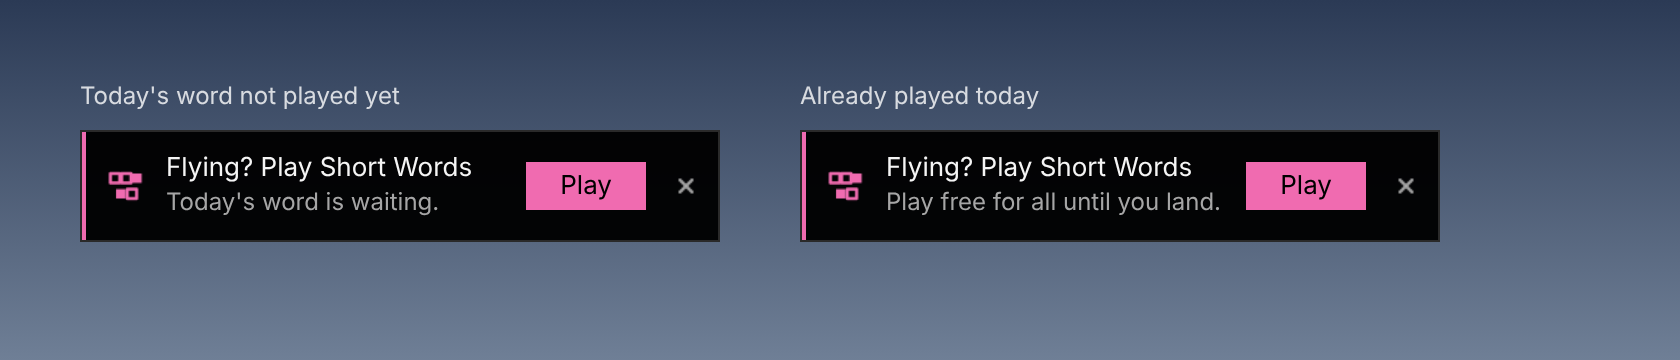
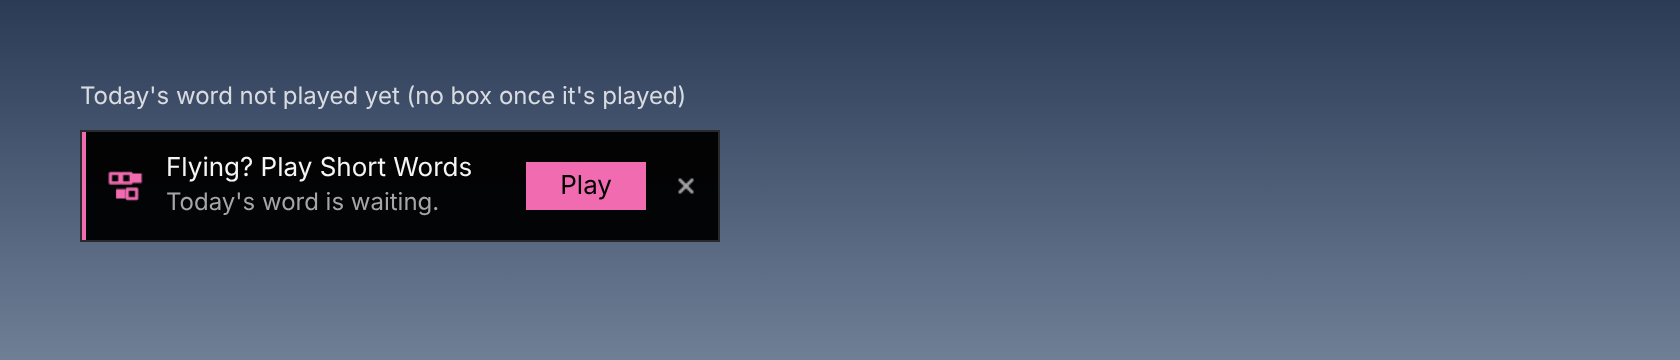
v0.8.0: flight box offers only today's word, and not once it's played
The guild asked for the Short Words flight pop-up to be about the daily
word only. Flight.Offer now returns nothing once today's word is done (or
started on another character); free for all is no longer offered.

Claude-Session: https://claude.ai/code/session_01A7mubGdPYGXe41A4ZcDyrF

Changed region(s): [[0.4643, 0.3361, 0.8667, 0.6722], [0.4643, 0.2444, 0.619, 0.3056], [0.2476, 0.2444, 0.4024, 0.3056]]

diff --git a/preview/index.html b/preview/index.html
@@ -886,8 +886,8 @@ function tooltipShot() {
 // v0.7.2: the box shown on a flight path (Theme.SIZES.flightBox 320 x 56, 140 from the top).
 function flightShot() {
   const box = (text) => `<div class="flightbox"><i class="edge"></i><i class="mask fi"></i><div class="ft"><div>Flying? Play Short Words</div><div class="dim">${text}</div></div>${btn("Play", "primary")}<div class="close"><i></i></div></div>`;
-  return `<div class="flightshot"><div><div class="cap">Today's word not played yet</div>${box("Today's word is waiting.")}</div>
-    <div><div class="cap">Already played today</div>${box("Play free for all until you land.")}</div></div>`;
+  // v0.8.0: only until today's word is played; no box after that.
+  return `<div class="flightshot"><div><div class="cap">Today's word not played yet (no box once it's played)</div>${box("Today's word is waiting.")}</div></div>`;
 }
 function copyWin() {
   const lines = ["Short Royalty roster", ...rosterRows().slice(0, 30).map((m) => `${m.name}  ${m.level}  ${m.rank}  ${m.spec || "-"}  ${m.ilvl || "-"}`)];

diff --git a/README.md b/README.md
@@ -47,7 +47,7 @@
 | 📅 **Raids** | Guild raids made in the addon by officers and raid leaders; sign up with your role and see who's coming, with readiness; for officers (`/sr officer`) **New raid** and automatic **attendance** (on time, late, didn't attend, bench) with totals and **Copy as spreadsheet** |
 | ⚒ **Find a crafter** | Search an item or recipe and see who in the guild can make it, online first, with its reagents and your bag counts |
 | 🧪 **Professions** | Three page tabs: **Guild** (every profession in the guild, then each profession's crafters and recipes), **Recipes** (**every recipe in the game**, by name, group or material) and **Cooldowns**; specialisations, favourites, skill-up colours from Forever's own data, and where to learn each recipe |
-| 🔤 **Short Words** | A five-letter word game: **Daily** (one word a day for the whole guild) and **Free for all** (keep going), each with **Today** and **All time** guild leaderboards; offered on flight paths |
+| 🔤 **Short Words** | A five-letter word game: **Daily** (one word a day for the whole guild) and **Free for all** (keep going), each with **Today** and **All time** guild leaderboards; today's word offered on flight paths |
 | ⚙ **Settings** | Sharing and privacy switches, accent colour, font, window size and reminders; tools and a live status read-out under **Advanced** |
 | 🧨 **Everywhere** | A sidebar window in your pick of accent colour, `/sr`, a minimap button, short guild lines on item tooltips, chat reminders and a copyable debug report |
 
@@ -224,9 +224,10 @@ else) or **red** (not in the word); the keyboard keeps track.
   for the daily word, every couple of minutes at most for free play. Turn
   sharing off in Settings → *Share my Short Words results*. Scores are on
   trust: it's for fun.
-- **On flights:** when you take a flight path, a small box offers a game
-  (today's word if you haven't played it, otherwise free for all). **Play**
-  opens Short Words; landing closes it again if the box opened it. Turn it
+- **On flights:** when you take a flight path and haven't played today's
+  word yet, a small box offers it. Once you've played it, the box doesn't
+  come back that day (v0.8.0). **Play** opens Short Words; landing closes it
+  again if the box opened it. Turn it
   off in Settings → Display → *Short Words on flights*.
 
 <p align="center"><img src="docs/images/short-words-flight.png" alt="The box shown on a flight path: Flying? Play Short Words" width="100%"></p>

diff --git a/TESTING.md b/TESTING.md
@@ -63,9 +63,9 @@ git history (`git show v0.6.0:TESTING.md`).
 ## v0.7.2 Short Words on flights
 
 15. [ ] Take a **flight path**: within a second a small box appears near the
-    top of the screen, "Flying? Play Short Words". It says *Today's word is
-    waiting* if you haven't played today, otherwise *Play free for all
-    until you land*.
+    top of the screen, "Flying? Play Short Words", *Today's word is
+    waiting*, but only if you haven't played today's word (v0.8.0: after
+    that, no box until the next day's word).
 16. [ ] **Play** opens Short Words. When you land, the box is gone and the
     window closes (only if the box opened it). **✕** or Esc hides the box.
 17. [ ] Getting stunned or feared (not on a flight) never shows the box,

diff --git a/CLAUDE.md b/CLAUDE.md
@@ -330,6 +330,8 @@ shared only over the guild **addon channel**: no website, no server, no uploads.
     Test stub: `time(t)` now uses `os.time(t)` for tables; `W.raid`.
     Pictures `raids*.png` (preview `screen=raids`, `officer=1`,
     `raidsView`, `attView`). TESTING.md 18–29.
+  - Also in v0.8.0 (guild asked): the flight box (`Flight.Offer`) offers only
+    today's daily word and returns nil once it's done (no free-for-all offer).
   - **Unverified in game:** everything; especially rank-name matching,
     `GetRaidRosterInfo`/`UnitGUID("raidN")` inside a raid instance, guild
     roster "online" inside instances, whether tabs survive Copy into Sheets.

diff --git a/CHANGELOG.md b/CHANGELOG.md
@@ -44,6 +44,9 @@
   raid group.
 - Works with guildmates on v0.3.3 and later; older versions just don't see
   the raids.
+- **Short Words on flights** (the guild asked): the box now only offers
+  **today's word**, and stops appearing once you've played it. It no longer
+  offers free for all.
 
 ## v0.7.2 (14 Nov 2026): Short Words on flights
 
